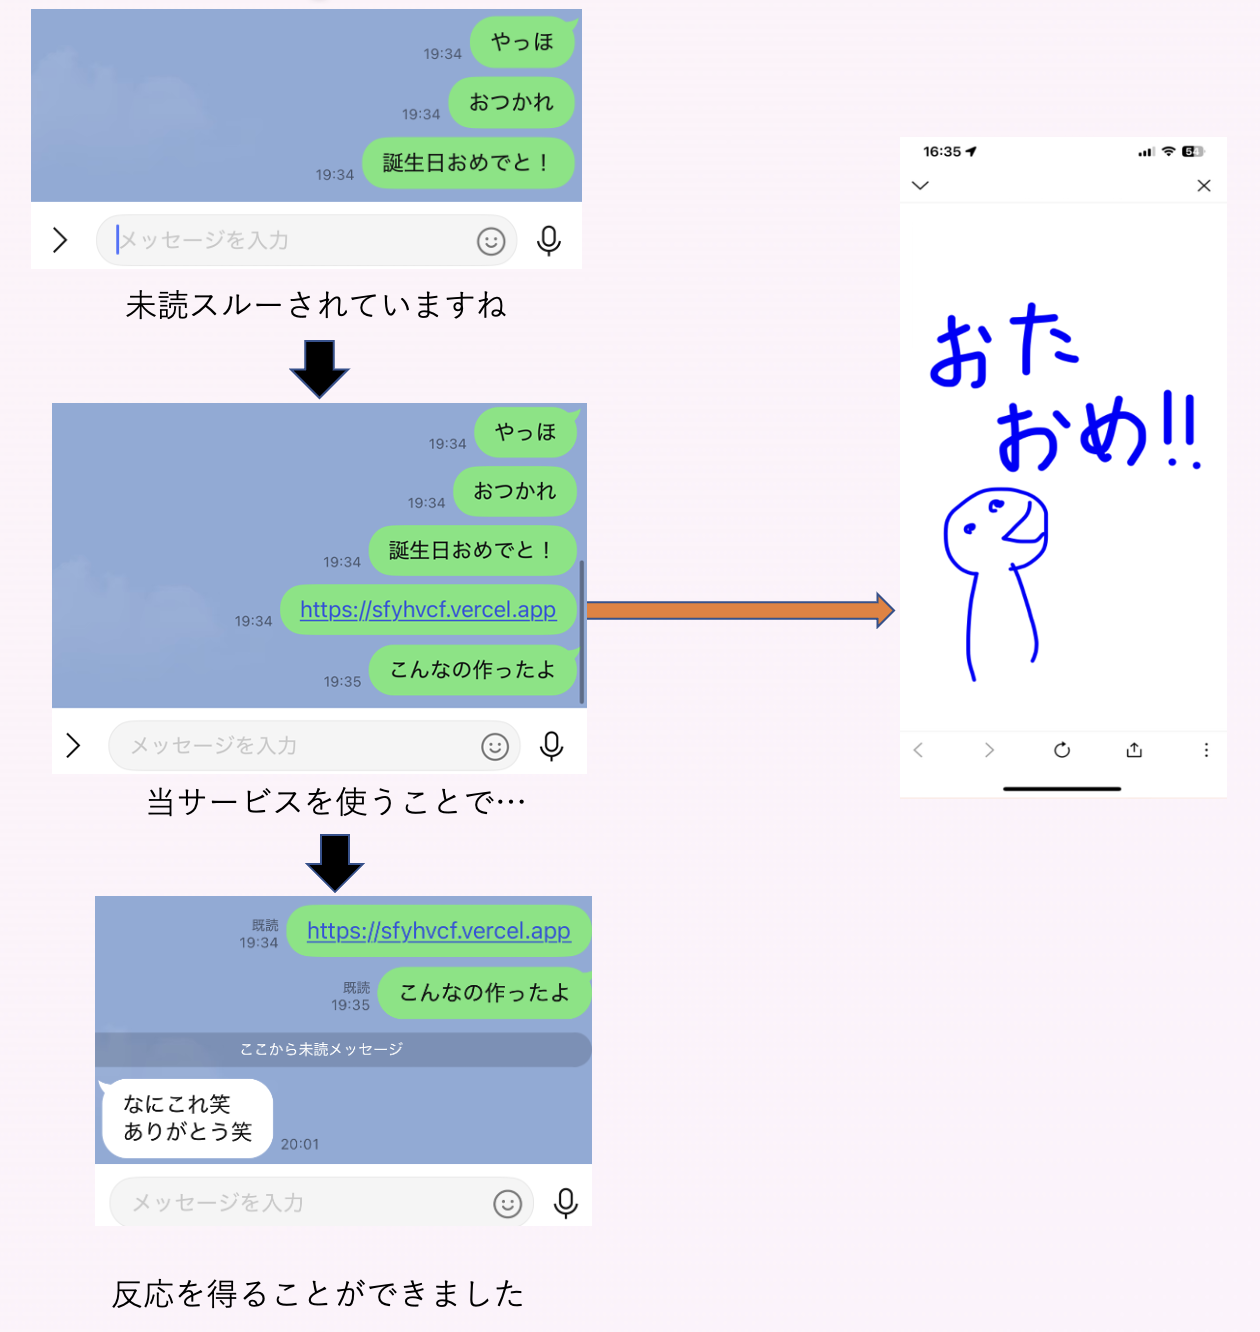
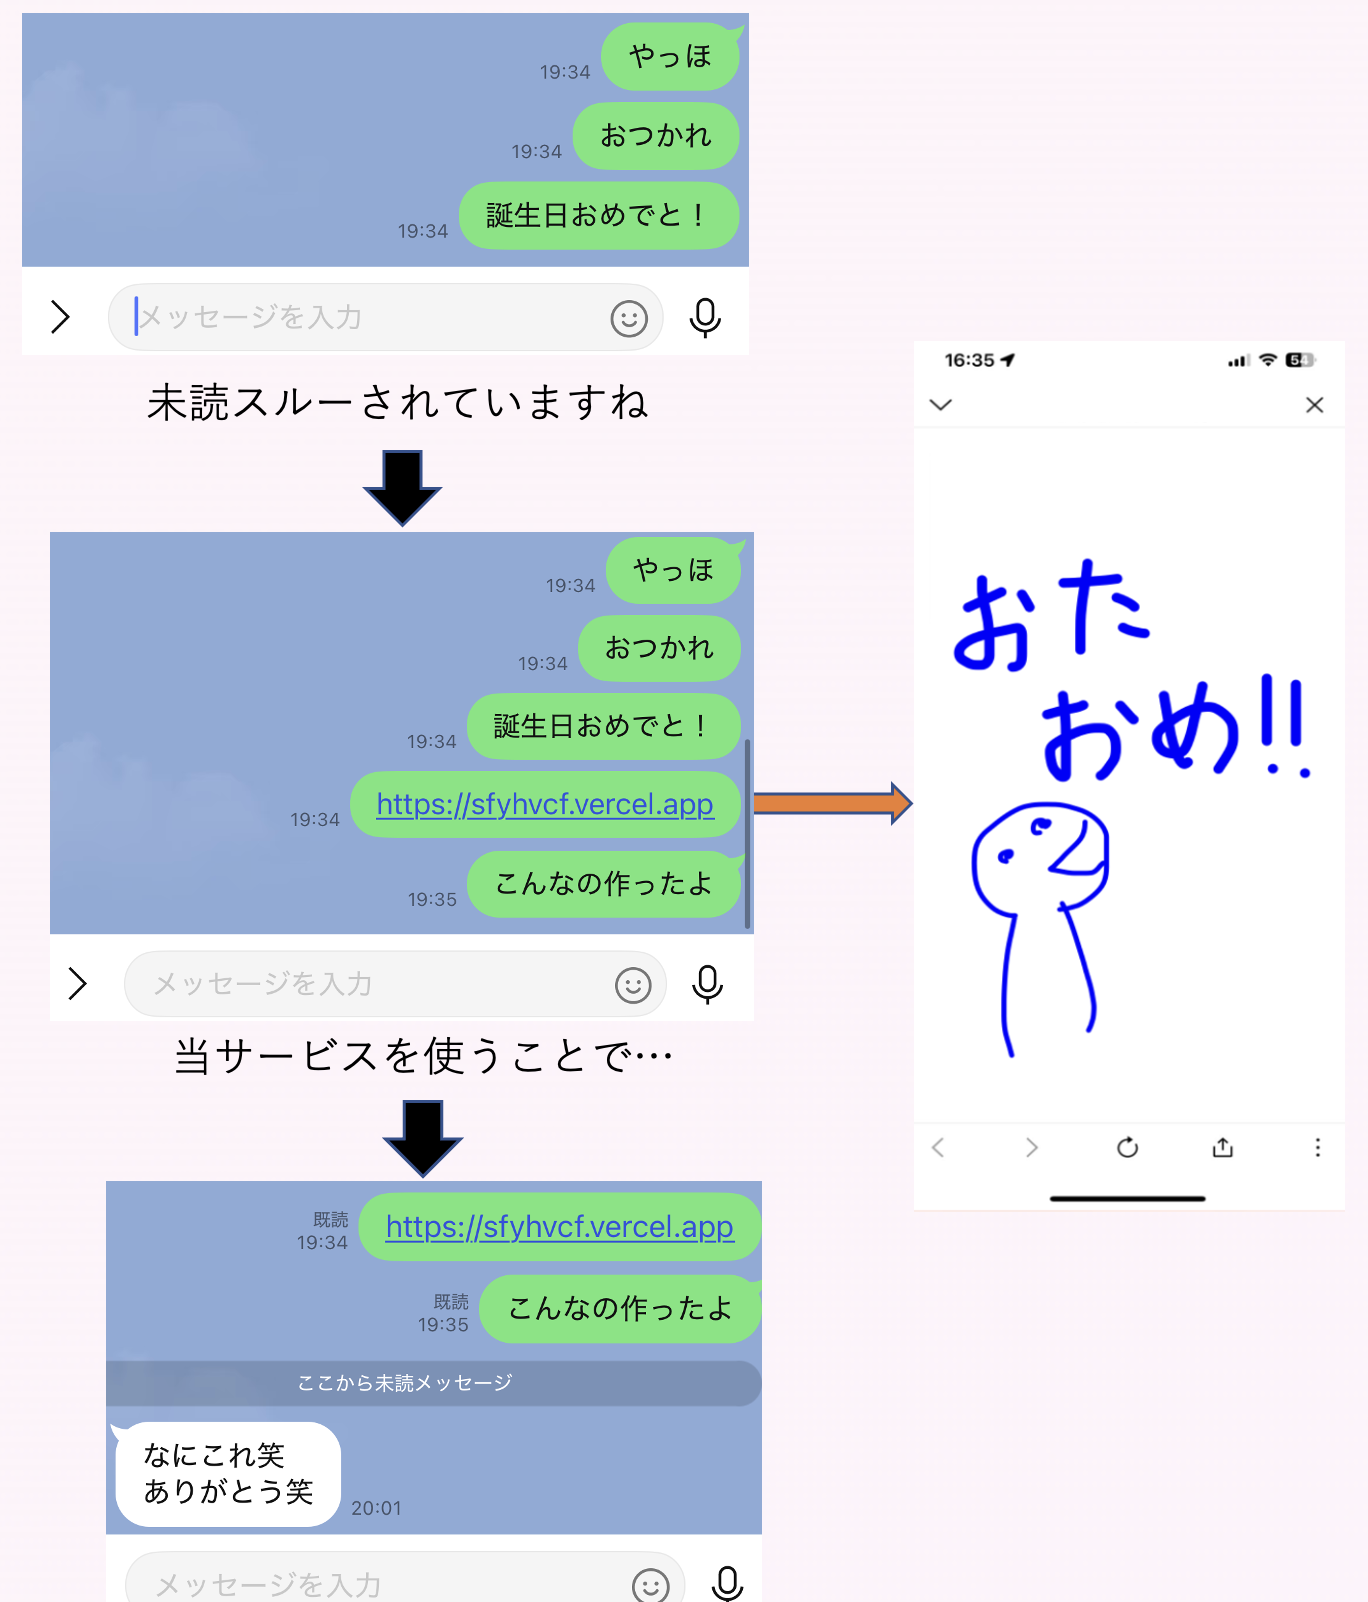
modify：zaoralとは：写真拡大

diff --git a/components/Hero.tsx b/components/Hero.tsx
@@ -10,9 +10,9 @@ export default function Hero() {
         </div>
         <h1>Zaoral</h1>
       </div>
-      {/* <p className="text-xl md:text-lg text-gray-600 max-w-3xl mx-auto leading-relaxed animate-in fade-in slide-in-from-bottom-8 duration-1000">
-        LINEで女性に返信させるサービス
-      </p> */}
+      <p className="text-xl md:text-lg text-gray-600 max-w-3xl mx-auto leading-relaxed animate-in fade-in slide-in-from-bottom-8 duration-1000">
+        未読スルー、ダメ。ゼッタイ。
+      </p>
     </section>
   )
 }
